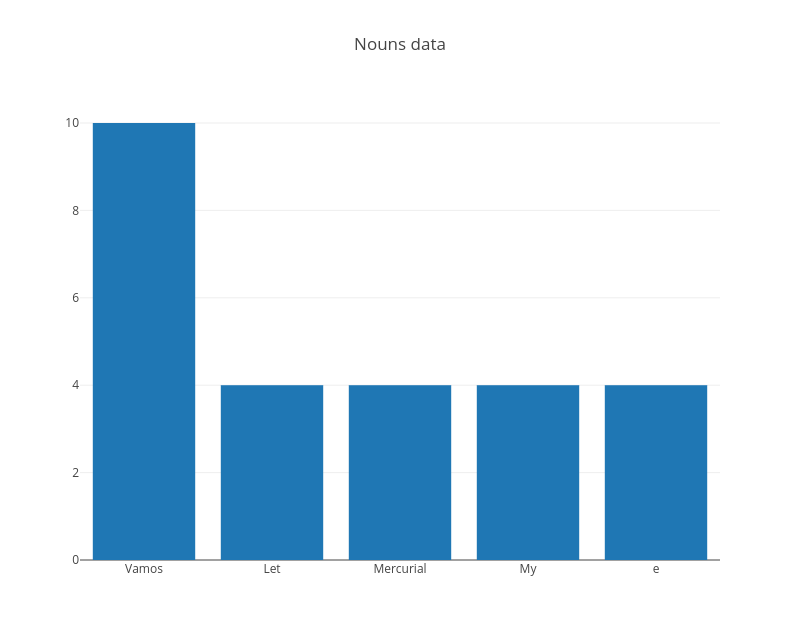
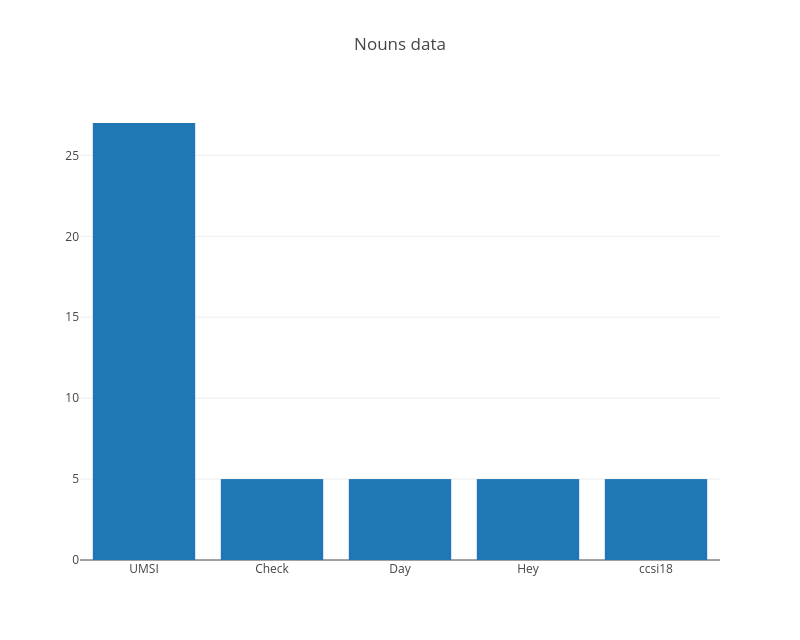
Updated Part1 to not include single letter words

diff --git a/part1.py b/part1.py
@@ -77,9 +77,8 @@ def main():
         favs += tweet.favorite_count
         tweet_tokens = nltk.word_tokenize(tweet.text)
         for w in tweet_tokens:
-            if (w[0].isalpha()) and (w not in stopWords):
+            if (w[0].isalpha()) and (w not in stopWords) and (len(w)>1):
                 filteredTokens.append(w)
-
 
 
     verbs = []
